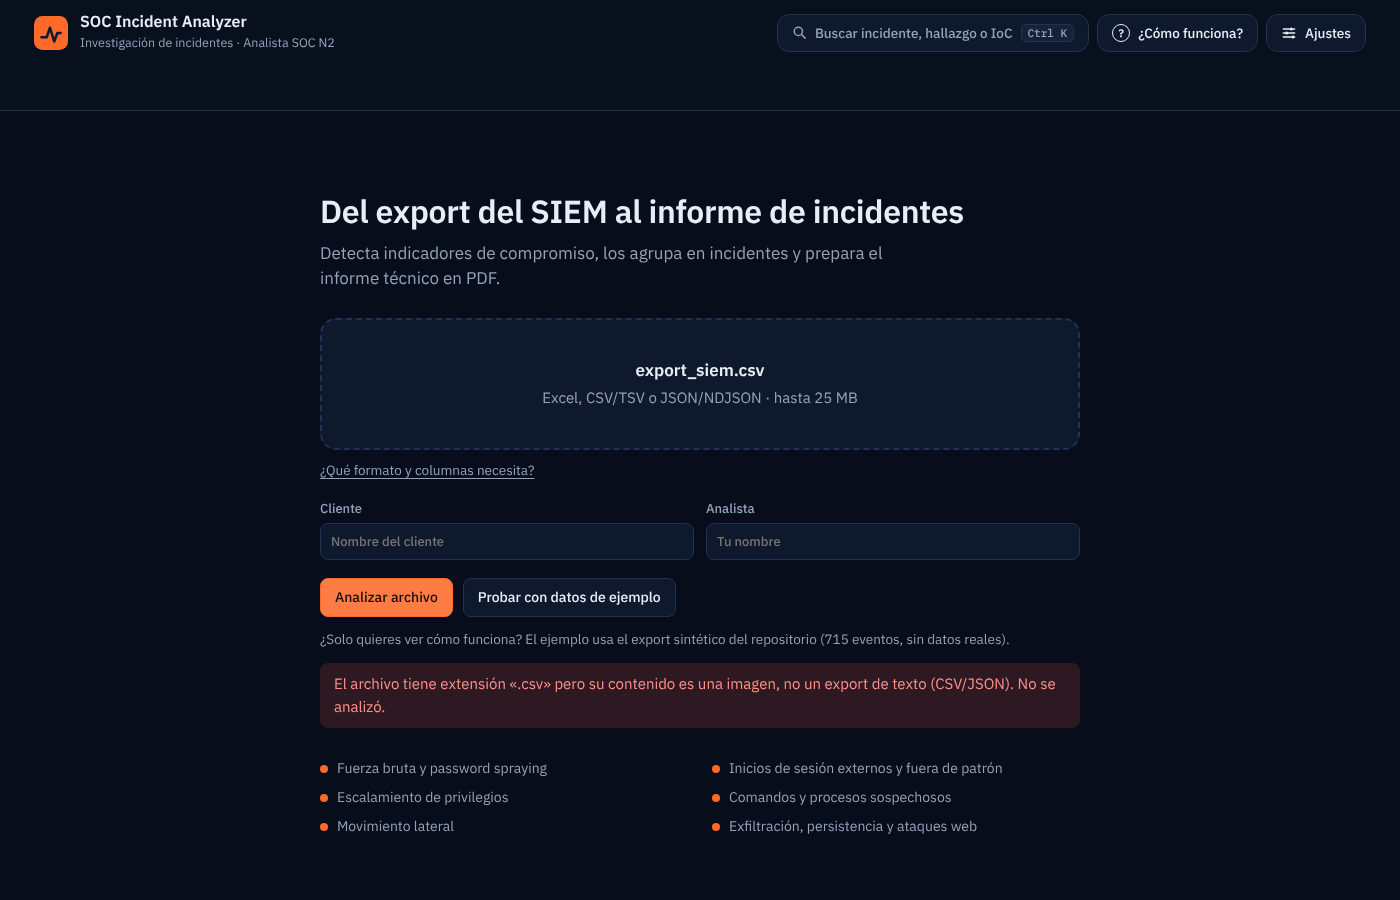
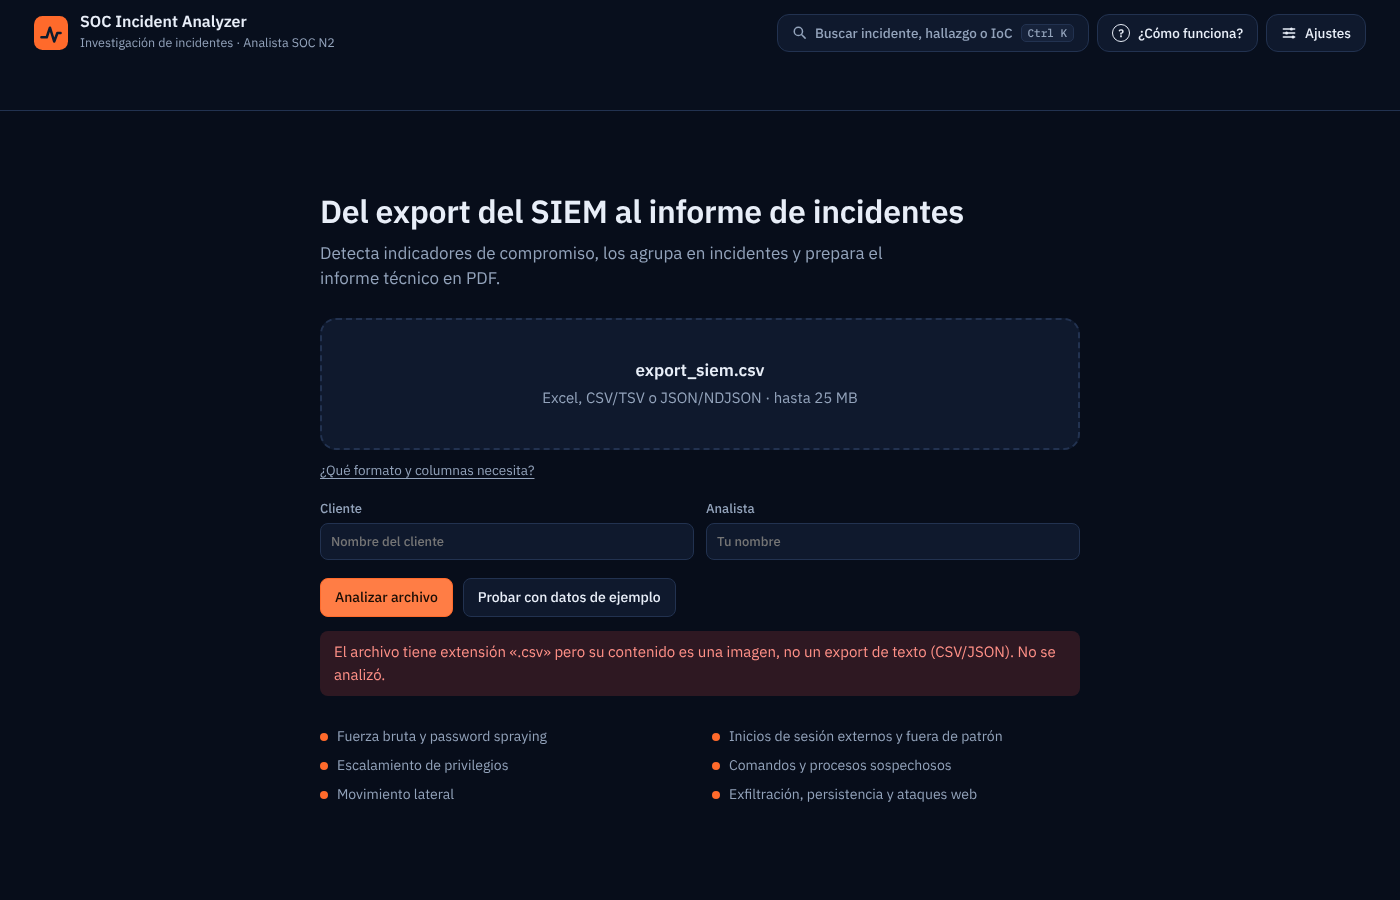
Add files via upload

Changed region(s): [[0.215, 0.6844, 0.7986, 0.9333]]

diff --git a/frontend/styles.css b/frontend/styles.css
@@ -261,7 +261,6 @@ dialog.pal{max-width:640px;margin-top:12vh}
   .g2,.g3,.g4,.g-wide,.plan,.fields,.checks{grid-template-columns:1fr}
   .g4{grid-template-columns:1fr 1fr}
 }
-.hint{margin:12px 0 0;font-size:13.5px}
 @media (max-width:900px){.tool .lbl{display:none}.tool{padding:8px 11px}.tabs-row{gap:8px}.tabs{-webkit-mask-image:linear-gradient(to right,#000 calc(100% - 28px),transparent);mask-image:linear-gradient(to right,#000 calc(100% - 28px),transparent);padding-right:28px}.rail-foot{width:100%;justify-content:space-between}.rail-foot b{max-width:60vw}}
 @media (max-width:600px){.brand small{display:none}.top-row{padding-top:10px;padding-bottom:6px}}
 @media (prefers-reduced-motion:reduce){*{transition:none!important;animation:none!important}}

diff --git a/frontend/app.js b/frontend/app.js
@@ -143,7 +143,6 @@ function landing() {
       <button class="btn primary" id="go" disabled>Analizar archivo</button>
       <button class="btn" id="sample" type="button">Probar con datos de ejemplo</button>
     </div>
-    <p class="muted hint">¿Solo quieres ver cómo funciona? El ejemplo usa el export sintético del repositorio (715 eventos, sin datos reales).</p>
     <div class="err" id="lerr" role="alert" hidden></div>
     <ul class="checks">
       <li>Fuerza bruta y password spraying</li><li>Inicios de sesión externos y fuera de patrón</li>
